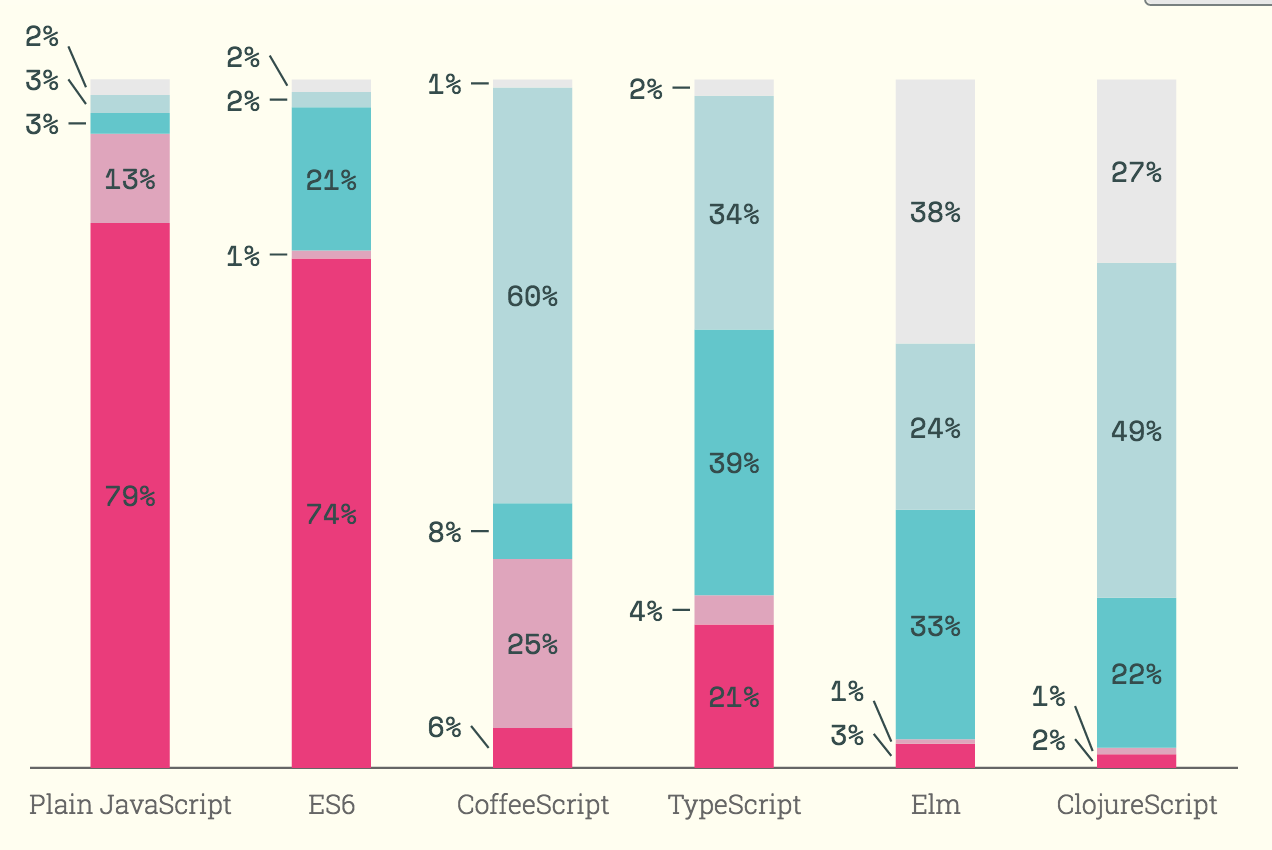
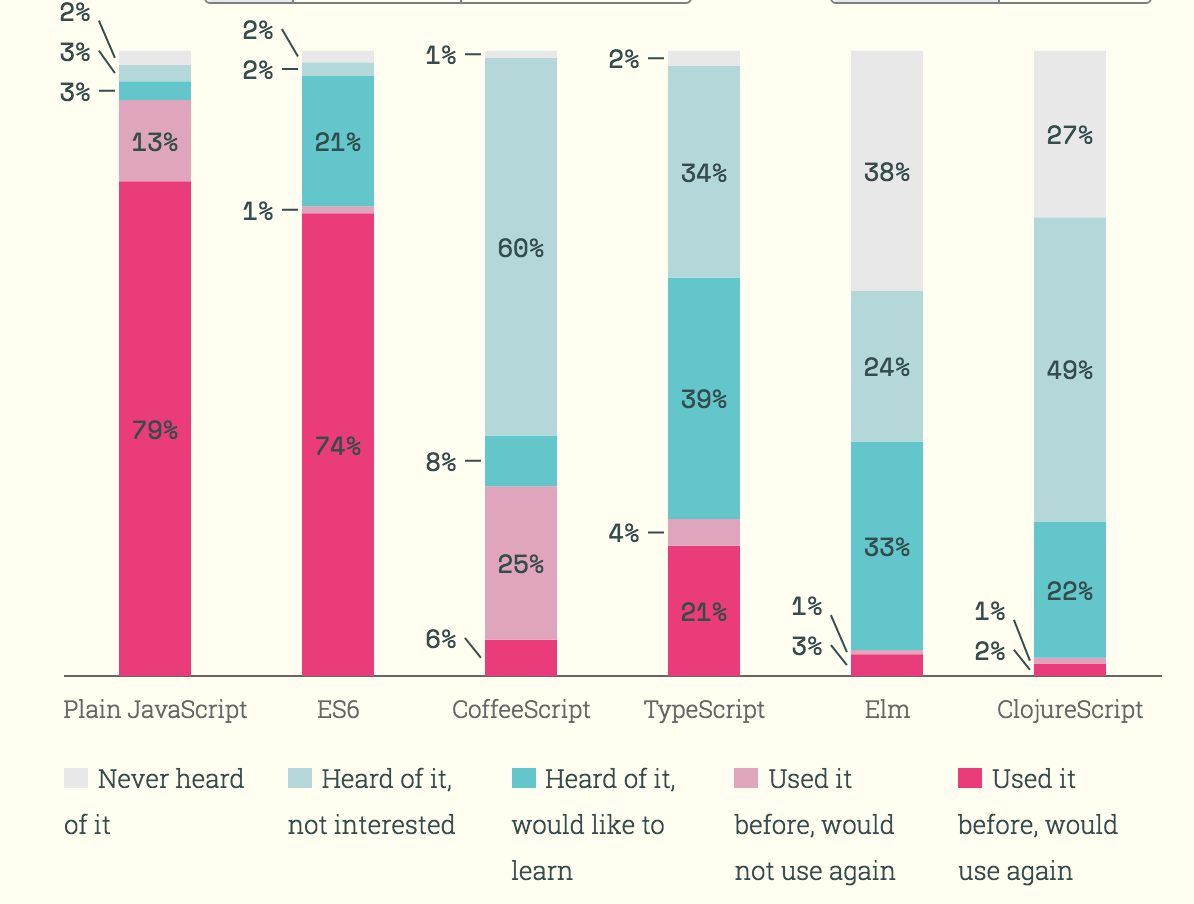
added cut off legend to javascript flavor overview

diff --git a/flow-typescript-2.html b/flow-typescript-2.html
@@ -162,7 +162,7 @@
 
         <section>
             <a href="http://stateofjs.com/2016/flavors/" target="_blank">
-                <img src="overview-percent.png">
+                <img src="overview-percent.png" height="600px">
             </a>
             <p><small><a href="http://stateofjs.com/2016/flavors/" target="_blank">
                 http://stateofjs.com/2016/flavors/
@@ -1040,6 +1040,7 @@ $('section').attr('data-background-image', "backgrounds/dark-sky.jpg")
 </script>
 <script>
     Reveal.addEventListener( 'ready', function( event ) {
+        // no fragments, never
         $('.fragment').removeClass('fragment');
         // only applies presentation version
         if (window.location.hostname.indexOf('localhost') !== -1) {
